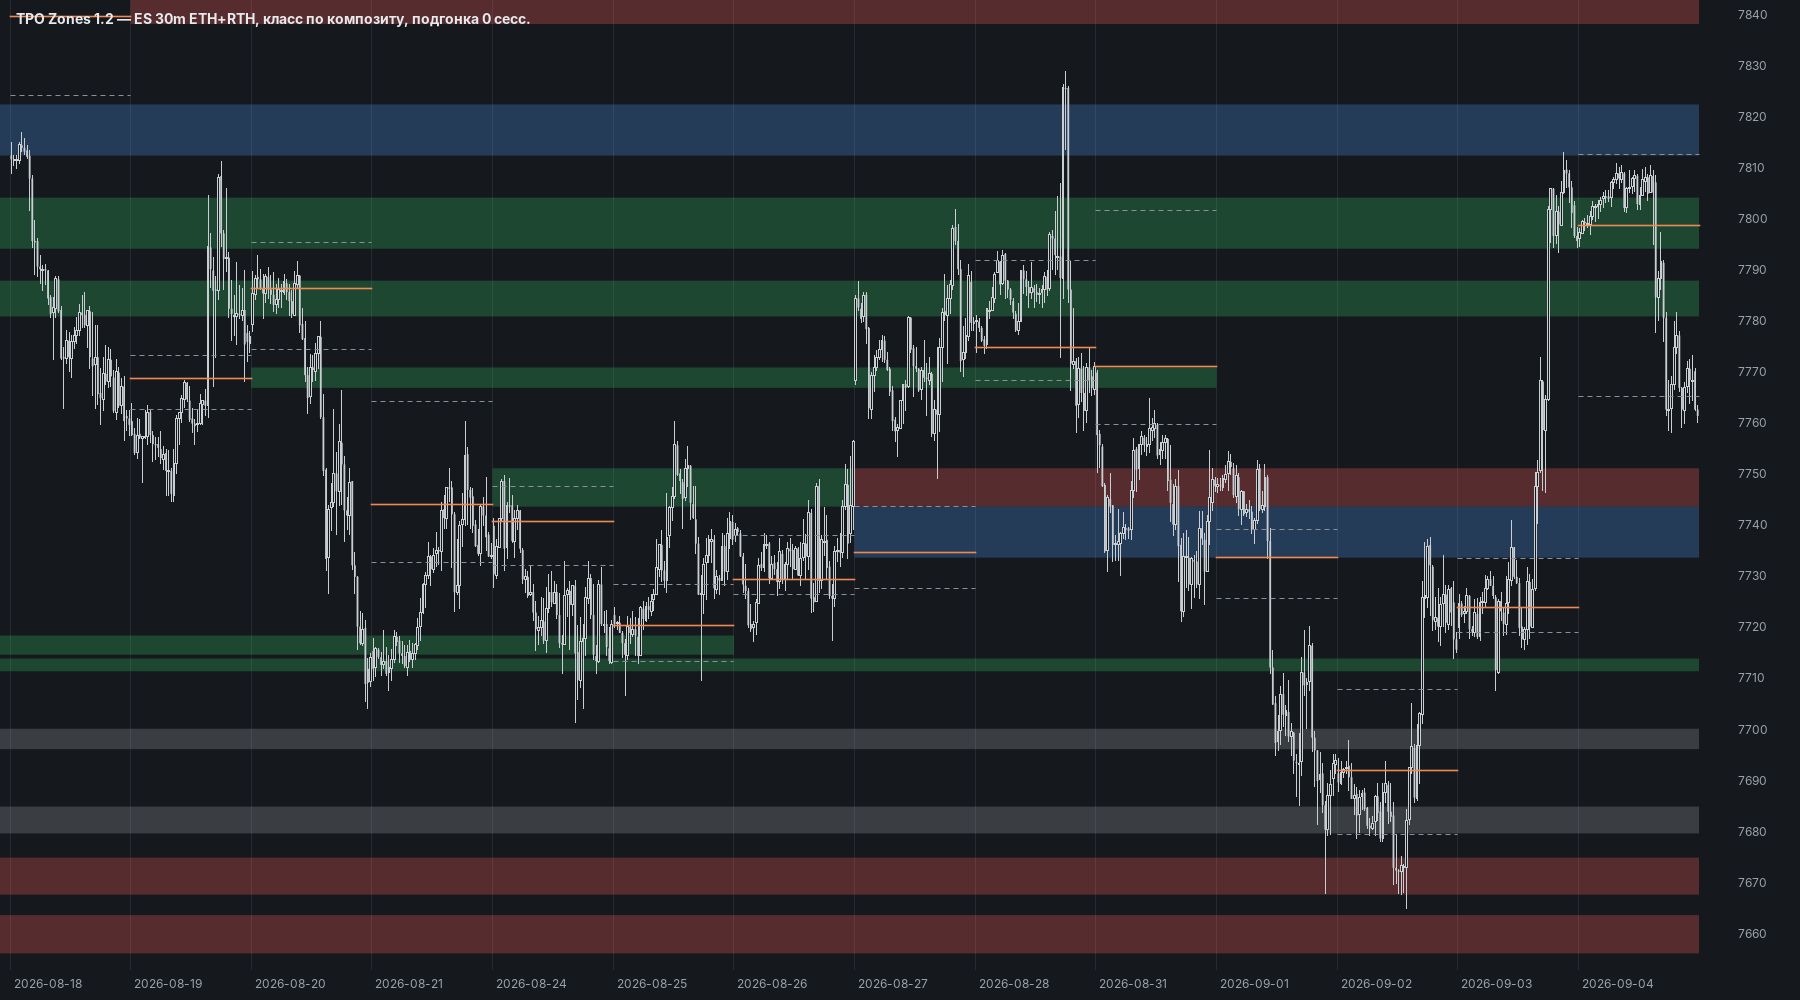
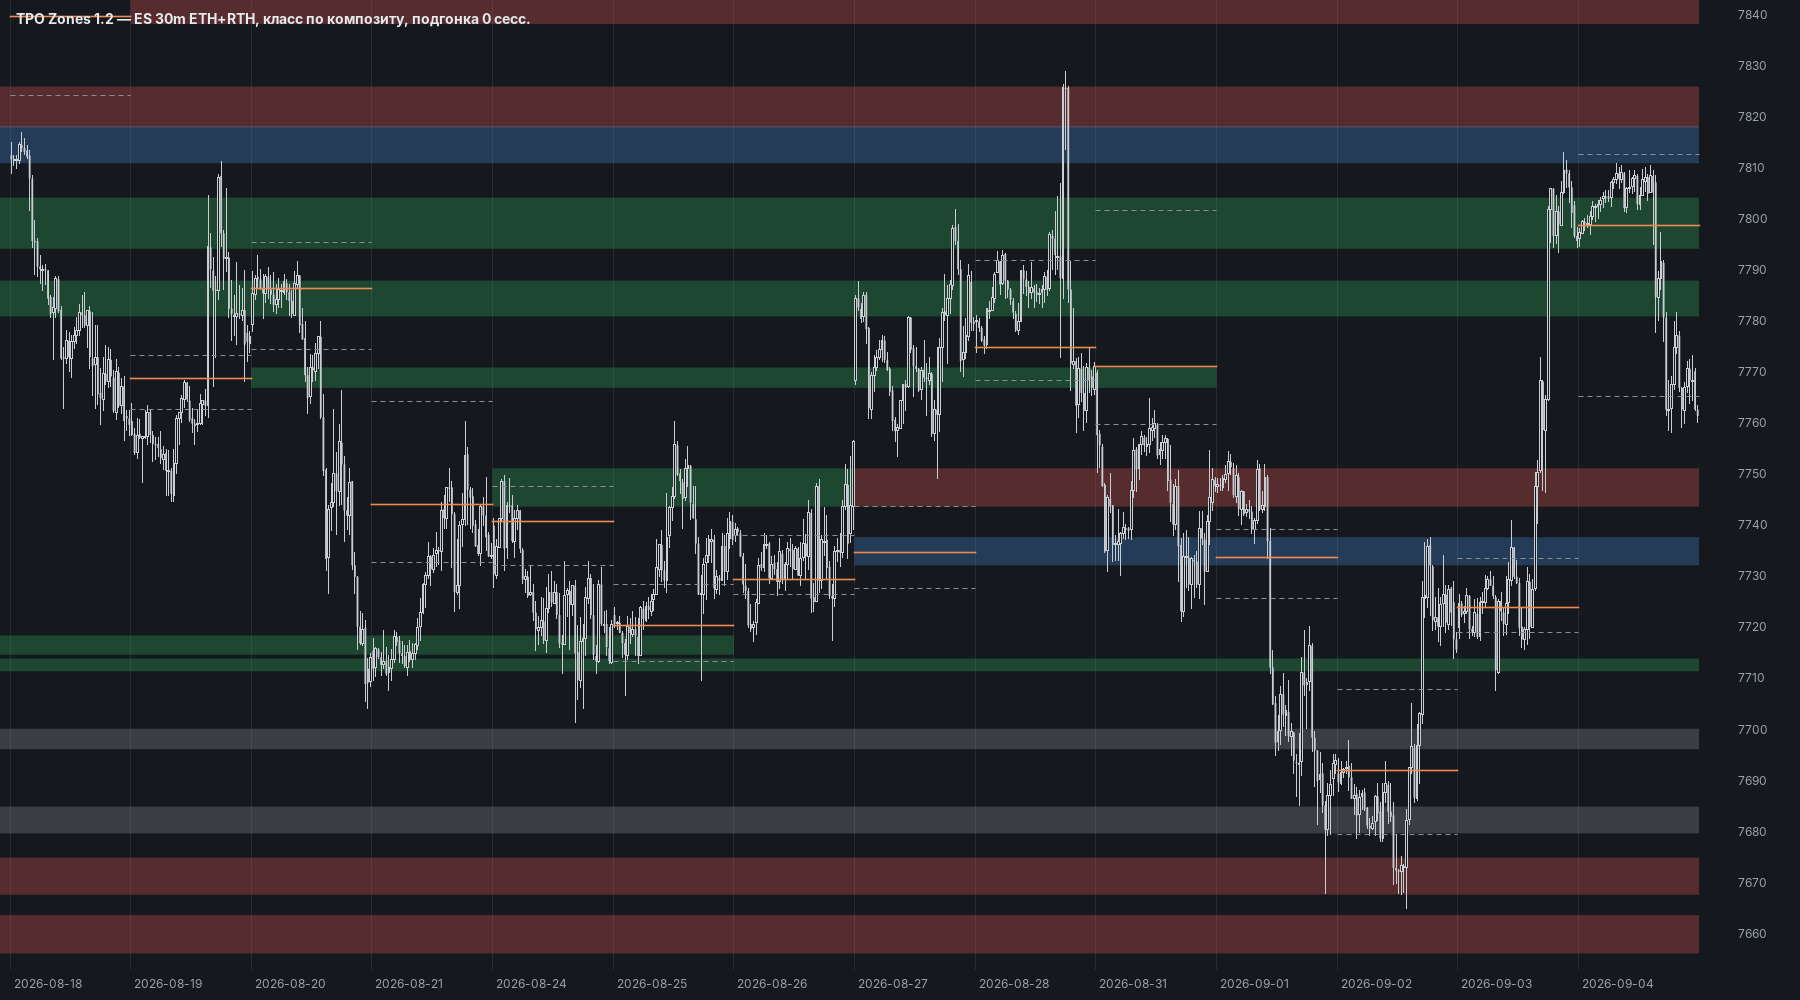
1.2: composite core from POC to the TPO cliff
The core no longer moves by the days' bands. It grows from the composite POC
while rows stay at 70% of the peak and no row drops 4+ prints below the
peak of the previous point (setting), then caps at 10 points. For the
2026-08-20..26 range the core is 7732.25-7737.75 instead of reaching 7743.75
past the drop above the POC. A composite is a balance if its days' value
areas touch the core (20 of 173 dropped, all wide trend moves).

Claude-Session: https://claude.ai/code/session_01PTkoju45i5ZphCgSn4vnkL

Changed region(s): [[0.0, 0.062, 0.9644, 0.124], [0.4667, 0.496, 0.9644, 0.589], [0.0, 0.155, 0.9333, 0.186]]

diff --git a/motivewave/src/patterns/zones/ZoneEngine.java b/motivewave/src/patterns/zones/ZoneEngine.java
@@ -79,9 +79,10 @@ public final class ZoneEngine {
         public boolean compositeMode = false;     // класс зоны по положению в композите, а не по отторжениям
         public boolean coreByVa = false;          // ядро композита: VA (иначе HVN-полоса вокруг POC)
         public double coreAbsorb = 0.30;
-        public boolean coreFromSessions = true;
-        public double coreMinDaysShare = 0.5;     // ядро признаётся, если его задевают HVN-полосы ≥ этой доли дней
-                                                  // композита; иначе это не баланс — композит не используется (0 — выкл.)   // ядро — где совпадают HVN-полосы ≥ половины дней композита
+        public boolean coreFromSessions = true;   // ядро до обрыва TPO; баланс — если VA дней задевают ядро
+        public int coreCliffTpo = 4;              // обрыв: строка на N принтов ниже максимума предыдущего 1 п. (4 тика)
+        public double coreMinDaysShare = 0.5;     // ядро признаётся, если его задевают VA ≥ этой доли дней композита;
+                                                  // иначе это не баланс — композит не используется (0 — выкл.)
         public double joinGapPts = 0.25;          // режим «по композиту»: зона того же вида ближе этого к более
                                                   // старой — её подтверждение (ядро не создаётся / не рисуется); < 0 — выкл.
         public double zoneMaxWidthPts = 0;        // > 0: HVN-полоса дня и ядро композита шире — сужаются до окна
@@ -508,12 +509,11 @@ public final class ZoneEngine {
             int poc = va[0];
             int cap = (int) Math.round(p.zoneMaxWidthPts / p.tick);
             if (p.coreFromSessions && !p.coreByVa) {
-                // ширина — от HVN-полосы композита (≤ лимита), место — где окно накрывают дневные HVN-полосы
-                int w = band[1] - band[0];
-                if (cap > 0) w = Math.min(w, cap);
-                band = sessionWindow(cand, cp, w);
+                // ядро — от POC композита до обрыва TPO (и не ниже hvnShare максимума), не шире лимита;
+                // композит — баланс, если VA его дней задевают ядро
+                band = narrow(cp, cliffBand(cp, poc, p.hvnShare, p.coreCliffTpo, 4), poc, cap);
                 int hit = 0;
-                for (Day d : cand) if (d.bandLo <= band[1] && d.bandHi >= band[0]) hit++;
+                for (Day d : cand) if (d.val <= band[1] && d.vah >= band[0]) hit++;
                 if (p.coreMinDaysShare > 0 && hit < Math.ceil(p.coreMinDaysShare * n - 1e-9)) {
                     band = null;                // не баланс: дни композита не сходятся в одной зоне
                 }
@@ -537,31 +537,17 @@ public final class ZoneEngine {
         }
     }
 
-    /** Ядро по сессионным профилям: окно шириной w тиков внутри диапазона композита, которое задевает
-     *  больше всего дневных HVN-полос его дней; при равенстве — сильнее накрытое (сумма по строкам:
-     *  сколько дней накрывает строку), затем с наибольшим TPO композита, затем ближе к POC композита. */
-    static int[] sessionWindow(List<Day> days, Profile cp, int w) {
-        int n = cp.counts.length;
-        w = Math.min(w, n - 1);
-        int[] cov = new int[n + 1];
-        for (Day d : days) {
-            int a = Math.max(0, d.bandLo - cp.low), b = Math.min(n - 1, d.bandHi - cp.low);
-            if (a <= b) { cov[a]++; cov[b + 1]--; }
-        }
-        for (int i = 1; i <= n; i++) cov[i] += cov[i - 1];
-        int poc = pocIndex(cp);
-        long bestC = -1, bestT = -1; int bestLo = 0, bestH = -1; double bestD = Double.MAX_VALUE;
-        for (int lo = 0; lo + w < n; lo++) {
-            long c = 0, t = 0;
-            for (int i = lo; i <= lo + w; i++) { c += cov[i]; t += cp.counts[i]; }
-            int h = 0;
-            for (Day dd : days) if (dd.bandLo <= cp.low + lo + w && dd.bandHi >= cp.low + lo) h++;
-            double d = Math.abs(lo + w / 2.0 - poc);
-            boolean better = h != bestH ? h > bestH : c != bestC ? c > bestC : t != bestT ? t > bestT : d < bestD;
-            if (better) { bestH = h; bestC = c; bestT = t; bestLo = lo; bestD = d; }
-        }
-        return new int[]{cp.low + bestLo, cp.low + bestLo + w};
+    /** Полоса вокруг POC до обрыва: строка входит, пока её TPO ≥ share × максимум и не ниже
+     *  максимума предыдущих look строк (в сторону POC) на cliff принтов и больше. */
+    static int[] cliffBand(Profile p, int pocTicks, double share, int cliff, int look) {
+        int[] c = p.counts; int i = pocTicks - p.low; double thr = share * p.max();
+        int lo = i, hi = i;
+        while (hi + 1 < c.length && c[hi + 1] >= thr && (cliff <= 0 || c[hi + 1] > maxOf(c, Math.max(i, hi - look + 1), hi) - cliff)) hi++;
+        while (lo - 1 >= 0 && c[lo - 1] >= thr && (cliff <= 0 || c[lo - 1] > maxOf(c, lo, Math.min(i, lo + look - 1)) - cliff)) lo--;
+        return new int[]{p.low + lo, p.low + hi};
     }
+
+    private static int maxOf(int[] c, int a, int b) { int m = 0; for (int k = a; k <= b; k++) m = Math.max(m, c[k]); return m; }
 
     /** Полоса [lo, hi] шире maxW тиков → окно шириной maxW внутри неё, содержащее POC, с максимумом TPO
      *  (при равенстве — с POC ближе к середине). */

diff --git a/motivewave/src/patterns/zones/TpoZonesStudy.java b/motivewave/src/patterns/zones/TpoZonesStudy.java
@@ -56,7 +56,7 @@ import patterns.zones.ZoneEngine.Result;
 public class TpoZonesStudy extends Study {
 
     // ---- ключи настроек
-    static final String CORE_DAYS = "coreMinDays", CORE_SESS = "coreFromSessions", JOIN_GAP = "joinGap", ZONE_W = "zoneMaxW", MODE = "compositeMode", CORE_VA = "coreByVa", BAR30 = "bar30", HISTORY_DAYS = "historyDays", TZ = "tz", RTH_START = "rthStart",
+    static final String CLIFF = "coreCliff", CORE_DAYS = "coreMinDays", CORE_SESS = "coreFromSessions", JOIN_GAP = "joinGap", ZONE_W = "zoneMaxW", MODE = "compositeMode", CORE_VA = "coreByVa", BAR30 = "bar30", HISTORY_DAYS = "historyDays", TZ = "tz", RTH_START = "rthStart",
             RTH_END = "rthEnd", ETH_START = "ethStart", TICK = "tick", VA_PCT = "vaPct", HVN_SHARE = "hvnShare",
             HVN_MIN = "hvnMin", HVN_MAX = "hvnMax", GHVN_MIN = "greyHvnMin", GHVN_MAX = "greyHvnMax",
             MERGE_OV = "mergeOv", MERGE_W = "mergeW", COMP_DAYS = "compDays", GREY_HIST = "greyHist",
@@ -88,8 +88,9 @@ public class TpoZonesStudy extends Study {
         SettingGroup g = tab.addGroup("Класс зон");
         g.addRow(new BooleanDescriptor(MODE, "По положению в композите: выше ядра — сопротивление, ниже — поддержка (иначе — по отторжениям, как на странице)", true));
         g.addRow(new BooleanDescriptor(CORE_VA, "Ядро композита — VA (иначе HVN-полоса вокруг POC)", false));
-        g.addRow(new BooleanDescriptor(CORE_SESS, "Ядро по сессионным профилям: где совпадают HVN-полосы ≥ половины дней", true));
-        g.addRow(new DoubleDescriptor(CORE_DAYS, "Композит — баланс, если ядро задевают HVN-полосы ≥ доли его дней (0 — любой)", 0.5, 0, 1, 0.05));
+        g.addRow(new BooleanDescriptor(CORE_SESS, "Ядро по профилю композита: от POC до обрыва TPO, баланс — по VA дней", true));
+        g.addRow(new IntegerDescriptor(CLIFF, "Обрыв TPO: строка на N принтов ниже максимума предыдущего 1 п. — граница ядра (0 — выкл.)", 4, 0, 50, 1));
+        g.addRow(new DoubleDescriptor(CORE_DAYS, "Композит — баланс, если ядро задевают VA ≥ доли его дней (0 — любой)", 0.5, 0, 1, 0.05));
         g.addRow(new DoubleDescriptor(JOIN_GAP, "Соседние зоны одного вида ближе, п. — подтверждение старой (−1 — выкл.)", 0.25, -1, 10, 0.25));
         g = tab.addGroup("Типы зон");
         g.addRow(new BooleanDescriptor(SHOW.get(Kind.HVN_S), Kind.HVN_S.title, true));
@@ -240,6 +241,7 @@ public class TpoZonesStudy extends Study {
         p.coreByVa = st.getBoolean(CORE_VA, false);
         p.coreFromSessions = st.getBoolean(CORE_SESS, true);
         p.coreMinDaysShare = st.getDouble(CORE_DAYS, 0.5);
+        p.coreCliffTpo = st.getInteger(CLIFF, 4);
         p.joinGapPts = st.getDouble(JOIN_GAP, 0.25);
         p.minWickTicks = st.getInteger(WICK, 2);
         p.sessions = st.getInteger(SESSIONS, 250);

diff --git a/motivewave/README.md b/motivewave/README.md
@@ -17,10 +17,9 @@
 
 ## Версии
 
-- **1.2** — класс зон по положению в TPO-композите (ядро по сессионным профилям — проторговка,
+- **1.2** — класс зон по положению в TPO-композите (ядро от POC композита до обрыва TPO — проторговка,
   выше — сопротивление, ниже — поддержка, вне композитов — серые), склейка соседних зон одного вида,
-  ядро шириной HVN-полосы композита (раньше по совпадению сессий могло выйти в 1 тик),
-  композиты, где дни не сходятся в ядре, — не балансы,
+  ядро от POC композита до обрыва TPO, композиты, где VA дней не задевают ядро, — не балансы,
   зоны не шире 10 п., заливка 30% без линий границ. Режим «по отторжениям» из 1.1 — галочкой.
 - **1.1** — порт страницы карты зон ветки `Zones-1.1`: класс HVN-зон по отторжениям (≥ 60%).
 
@@ -40,29 +39,26 @@
   **ниже — поддержка** (зелёные). Класс фиксируется по композиту, в котором зона оказалась
   при появлении; зона, родившаяся во время композита (между его первым днём и днём, когда он
   сложился), один раз переходит к нему, когда он сложится (пример — ренж 20.08–26.08: ядро
-  7733.75–7743.75, сопротивление 7743.75–7751.25 над ним, поддержка 7711.50–7714 под ним);
+  7732.25–7737.75, сопротивление 7743.75–7751.25 над ним, поддержка 7711.50–7714 под ним);
 - зона, на > 30% своей ширины лежащая на видимом ядре, им поглощается (не рисуется);
   зона из серого источника, лежащая на первородной, тоже;
 - зоны вне всех композитов — серые, пока их не накроет композит.
 
-**Ядро по сессионным профилям** (по умолчанию): ширина ядра — от HVN-полосы композита
-(не больше 10 п.), а место — по дням композита: окно ставится туда, где его больше всего
-накрывают дневные HVN-полосы (при равенстве — больше TPO композита, ближе к POC). Ядро уже
-полосы композита бывает только у композитов с узкой полосой (5 из 173, все 2021–2023).
+**Ядро — по профилю композита до обрыва** (по умолчанию): от POC композита вверх и вниз,
+пока строка не ниже 70% максимума TPO и нет обрыва — строки на 4 принта и больше ниже максимума
+предыдущего 1 п. (настройка «Обрыв TPO»). Затем не шире 10 п. (окно с POC и максимумом TPO).
+Пример — ренж 20.08–26.08: POC 7736, над 7737.75 счёт падает с 27–28 до 21–22 принтов, ядро
+7732.25–7737.75 (в MotiveWave на ESZ6 ≈ 46 п. ниже).
 
-**Композит должен быть балансом:** ядро задевают HVN-полосы не меньше половины его дней
-(настройка, 0 — любой композит). Иначе ядра нет и композит не делит цену на поддержку /
-сопротивление — так отсеиваются «композиты» от трендового дня, закрытия следующих дней в
-широком диапазоне которого попадают внутрь (пример: 17.06–22.06, диапазон 132 п., POC дней
-7628 / 7608 / 7586). Окно ядра ставится туда, где его задевает больше всего дней композита
-(затем — сильнее накрытое, больше TPO, ближе к POC). Отсеивается 41 из 173 (медиана диапазона
-133 п. против 85 у балансов);
-зоны внутри них остаются серыми, пока их не накроет настоящий баланс.
+**Композит должен быть балансом:** ядро задевают VA не меньше половины его дней (настройка,
+0 — любой композит). Иначе ядра нет и композит не делит цену на поддержку / сопротивление.
+Отсеивается 20 из 173 — широкие трендовые движения (медиана диапазона 133 п. против 92);
+зоны внутри них остаются серыми, пока их не накроет баланс.
 
 **Соседи склеиваются:** новое ядро, касающееся существующего (зазор ≤ 0.25 п.), — его
 подтверждение; зона поддержки / сопротивления вплотную к более старой видимой зоне того же
 вида не рисуется. Сплошных одноцветных блоков шире 10 п. на последних 250 сессиях нет;
-зон на сессию 48, пересекающихся пар 2.3. Подгонка по телам свечей в этом режиме зону
+зон на сессию 58, пересекающихся пар 8.5. Подгонка по телам свечей в этом режиме зону
 не расширяет (≤ 10 п.), но добавляет зон и пересечений (11 на сессию), поэтому выключена.
 
 **Ширина зон — не больше 10 п.** (вкладка «Расчёт», 0 — без лимита). HVN-полоса дня и ядро
